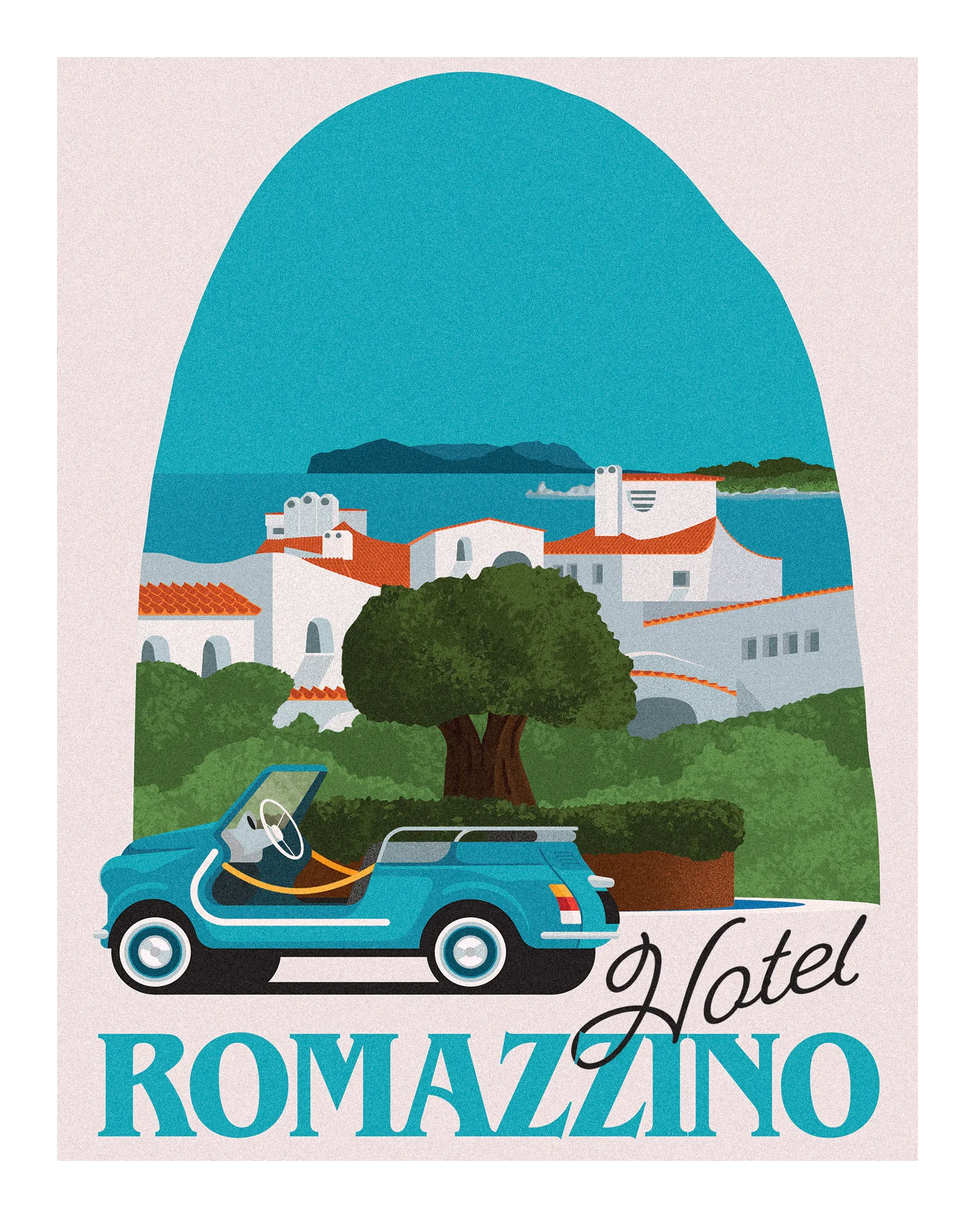
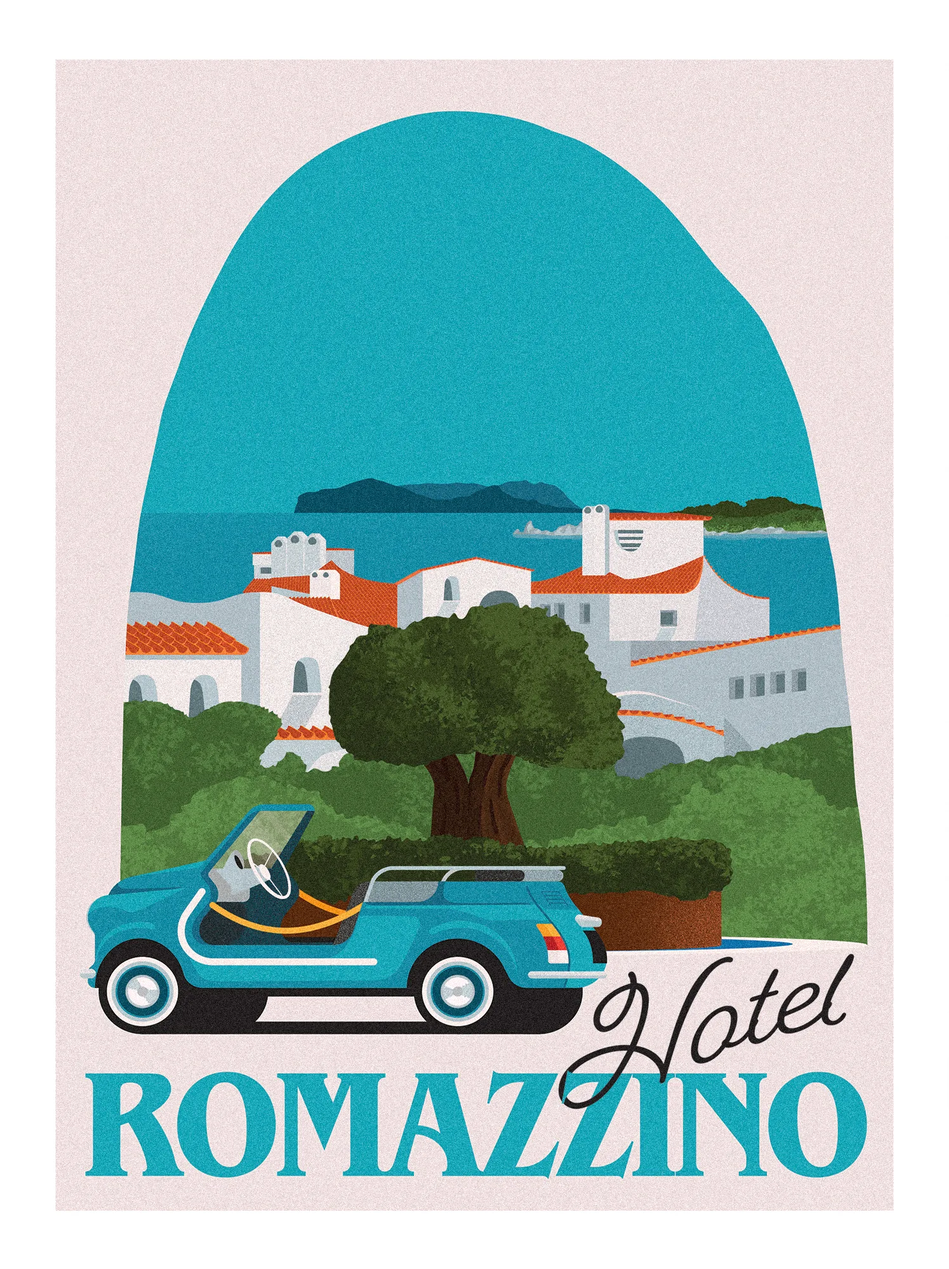
fix(work): match Romazzino's ratio, swap card lead, hide captions
Josh re-exported Romazzino to match Cala di Volpe's ratio (3/4)
specifically so all three posters would sit at equal height on the
project page — updated the declared ratio to match. Also swapped the
/work card to lead with Romazzino (Cala di Volpe now the hover), and
hid the hero captions per Josh's call.

Changed region(s): [[0.0923, 0.0312, 0.9231, 0.9375]]

diff --git a/lib/projects.ts b/lib/projects.ts
@@ -349,6 +349,7 @@ export const projects: Project[] = [
     categories: ["Hospitality", "Automotive"],
     summary: "Three hotels, three vintage travel posters, one coastline.",
     heroCaption: "A set of travel posters for three Costa Smeralda hotels — Cala di Volpe, Romazzino and Cervo — 2022.",
+    hideHeroCaptions: true,
     brief: [
       "Costa Smeralda commissioned a set of vintage-style travel posters, one per hotel — Hotel Cala di Volpe, Hotel Romazzino and Hotel Cervo.",
     ],
@@ -356,18 +357,18 @@ export const projects: Project[] = [
       { role: "Illustration", name: "Josh McKenna" },
       { role: "Client", name: "Costa Smeralda" },
     ],
-    // No-border crops, specifically for the /work card — Cala di Volpe
-    // leads, Romazzino swaps in on hover.
+    // No-border crops, specifically for the /work card — Romazzino leads,
+    // Cala di Volpe swaps in on hover.
     cardRatio: "4/5",
     cardImage: {
       ratio: "4/5",
-      alt: "Hotel Cala di Volpe",
-      src: "/work/costa-smeralda/01-cala-di-volpe-no-border.webp",
+      alt: "Hotel Romazzino",
+      src: "/work/costa-smeralda/02-romazzino-no-border.webp",
     },
     cardHoverImage: {
       ratio: "4/5",
-      alt: "Hotel Romazzino",
-      src: "/work/costa-smeralda/02-romazzino-no-border.webp",
+      alt: "Hotel Cala di Volpe",
+      src: "/work/costa-smeralda/01-cala-di-volpe-no-border.webp",
     },
     // All three side by side, each keeping its own printed border — square
     // corners rather than the sitewide rounded frame, same reasoning as
@@ -380,7 +381,10 @@ export const projects: Project[] = [
       square: true,
     },
     heroPair: {
-      ratio: "4/5",
+      // True ratio updated to match Cala di Volpe's — Josh re-exported
+      // Romazzino specifically so all three posters would match height on
+      // the project page.
+      ratio: "3/4",
       alt: "Hotel Romazzino",
       src: "/work/costa-smeralda/02-romazzino.webp",
       square: true,
